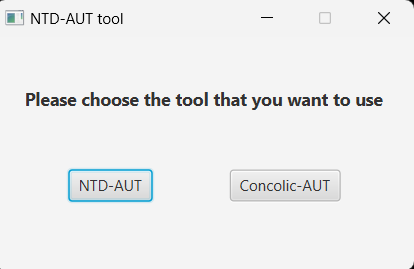
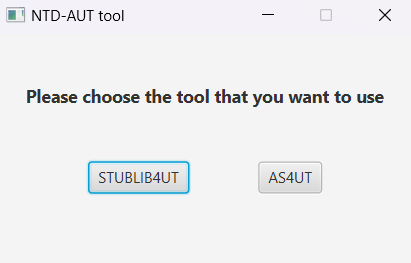
update readme

diff --git a/src/main/java/data/testDriverData/TestDriver.java b/src/main/java/data/testDriverData/TestDriver.java
@@ -19,41 +19,47 @@ writer.close();
 e.printStackTrace();
 }
 }
-public static boolean isPerfectNumber(double num)
+public static int countCharacterTypes(char input, boolean isUpperCase_call_1, boolean isLowerCase_call_2, boolean isLetter_call_3, boolean isDigit_call_4)
 {
-if (((num <= 1) && mark("num <= 1", true, false)) || mark("num <= 1", false, true))
-{
-mark("return false;\n", false, false);
-return false;
-}
-mark("int sum=1;\n", false, false);
-int sum=1;
-mark("int i=2", false, false);
-for (int i=2; ((i <= Math.sqrt(num)) && mark("i <= Math.sqrt(num)", true, false)) || mark("i <= Math.sqrt(num)", false, true); mark("i++", false, false),
-i++) {
-{
-if (((num % i == 0) && mark("num % i == 0", true, false)) || mark("num % i == 0", false, true))
+mark("int uppercaseCount=0;\n", false, false);
+int uppercaseCount=0;
+mark("int lowercaseCount=0;\n", false, false);
+int lowercaseCount=0;
+mark("int specialCount=0;\n", false, false);
+int specialCount=0;
+if (((isUpperCase_call_1) && mark("isUpperCase_call_1", true, false)) || mark("isUpperCase_call_1", false, true))
 {
 {
-mark("sum+=i;\n", false, false);
-sum+=i;
-if (((i != num / i) && mark("i != num / i", true, false)) || mark("i != num / i", false, true))
+mark("uppercaseCount++;\n", false, false);
+uppercaseCount++;
+}
+}
+else {
+if (((isLowerCase_call_2) && mark("isLowerCase_call_2", true, false)) || mark("isLowerCase_call_2", false, true))
 {
-mark("sum+=num / i;\n", false, false);
-sum+=num / i;
+{
+mark("lowercaseCount++;\n", false, false);
+lowercaseCount++;
+}
+}
+else {
+if (((!isLetter_call_3 && !isDigit_call_4) && mark("!isLetter_call_3 && !isDigit_call_4", true, false)) || mark("!isLetter_call_3 && !isDigit_call_4", false, true))
+{
+{
+mark("specialCount++;\n", false, false);
+specialCount++;
 }
 }
 }
 }
-}
-mark("return sum == num;\n", false, false);
-return sum == num;
+mark("return uppercaseCount + lowercaseCount + specialCount;\n", false, false);
+return uppercaseCount + lowercaseCount + specialCount;
 }
 
 public static void main(String[] args) {
 writeDataToFile("", "src/main/java/data/testDriverData/runTestDriverData.txt", false);
 long startRunTestTime = System.nanoTime();
-Object output = isPerfectNumber(0.0);
+Object output = countCharacterTypes('', false, false, true, false);
 long endRunTestTime = System.nanoTime();
 double runTestDuration = (endRunTestTime - startRunTestTime) / 1000000.0;
 writeDataToFile(runTestDuration + "===" + output, "src/main/java/data/testDriverData/runTestDriverData.txt", true);

diff --git a/src/main/java/controller/ChooseToolController.java b/src/main/java/controller/ChooseToolController.java
@@ -24,7 +24,7 @@ public class ChooseToolController {
         stage = (Stage)((Node)event.getSource()).getScene().getWindow();
         scene = new Scene(root);
         stage.setResizable(false);
-        stage.setTitle("ConcolicWithStub");
+        stage.setTitle("AS4UT");
         stage.setScene(scene);
         stage.show();
     }
@@ -36,7 +36,7 @@ public class ChooseToolController {
         stage = (Stage)((Node)event.getSource()).getScene().getWindow();
         scene = new Scene(root);
         stage.setResizable(false);
-        stage.setTitle("ConcolicStub4Lib");
+        stage.setTitle("STUBLIB4UT");
         stage.setScene(scene);
         stage.show();
     }

diff --git a/README.md b/README.md
@@ -1,1 +1,30 @@
-# Concolic With Stub
+# STUBLIB4UT: A Stub Generation Method For Library Functions In Unit Testing Java Projects
+## USER MANUAL
+### Required environment
+- Our implementation has been tested on the Windows, Intel®Core™i7-1165G7 CPU @ 2.80GHz, 16GBs RAM memory.
+- IntelliJ IDEA, which is available [here](https://www.jetbrains.com/idea/download/)
+- [Java 11 SDK](https://www.oracle.com/java/technologies/javase-jdk11-downloads.html)
+- [Download JavaFX SDK (Version: 17.0.10, Type: SDK)](https://gluonhq.com/products/javafx/)
+- [z3 solver (Version >= 4.12.2)](https://github.com/Z3Prover/z3)
+    - Extract the downloaded file
+    - Add the path to the `bin` folder to the system environment variable `PATH` or `Path`
+## How to Run?
+1. Clone and Open the project in IntelliJ IDEA
+2. Add JavaFX SDK to the project (File -> Project Structure -> Libraries -> Add -> Java -> Select the lib folder of JavaFX SDK)
+3. Edit Configuration
+    - New Configuration -> Application
+    - Main class: `gui.Main`
+    - Modify options -> Add VM options: `--module-path <path-to-lib-folder-of-javafx-sdk> --add-modules javafx.controls,javafx.fxml` (TODO: Change the path to your JavaFX SDK lib folder)
+4. Run the project, the tool will ask you to choose between two options:
+    - **Option 1**: STUBLIB4UT
+    - **Option 2**: AS4UT\
+      ![image](./src/main/resources/img/choose-method.png)
+5. After choosing the method, the main screen looks like this:
+   ![image](./src/main/resources/img/main-screen.png)
+6. Upload the project by clicking the `Choose file` button, then select the project folder.\
+   Note:
+    - We have provided our experimental project in the `sample` folder.
+    - The project should be compressed into a zip file.
+7. After the project is uploaded, choose the unit and then choose the coverage criteria.
+8. Click the `Generate` button to start the testing process. The result will be displayed and you can click on each test case to see the details as well as below:
+   ![image](./src/main/resources/img/demo.png)
